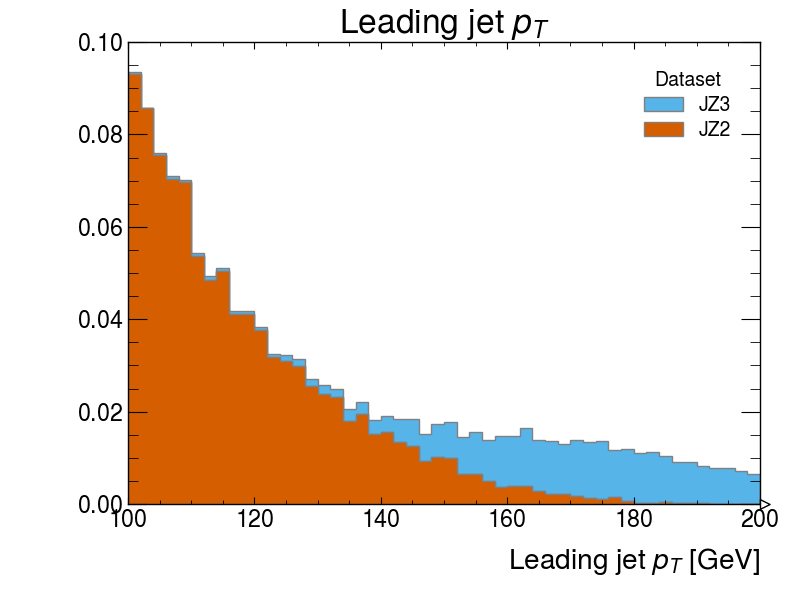
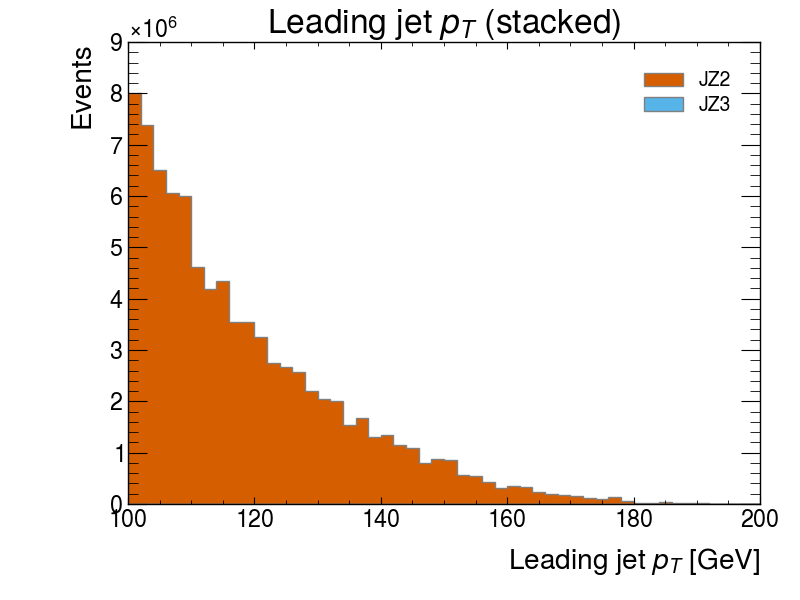
Update 01-pt-plot-2-samples and images from CI

diff --git a/01-pt-plot-2-samples.md b/01-pt-plot-2-samples.md
@@ -6,138 +6,149 @@
 <div style="margin-left: 1em;">
 
 
-- Fetches both rucio datasets with a single ServiceX request (NFiles=1 for each) and brings back only what’s needed: per-event jet pT (in GeV), the MC event weight, and a per-event counter for event counting.
-- Uses Awkward Array to find the leading-jet pT per event via ak.argmax, selects events where the leading-jet pT is in [100, 200] GeV, and applies weights.
-- Applies MC event weights and cross-section scaling to 1 fb^-1 luminosity:
-  - JZ2 (run 801167): 2.58 milli-barn
-  - JZ3 (run 801168): 8.6 micro-barn
-- Builds a weighted histogram with a categorical “process” axis and produces a stacked plot saved to leading_jet_pt_100_200_stacked.png.
-- Note: Only one file per dataset (NFiles=1) is processed here; increase NFiles yourself when you’re ready to run more.
+- Uses ServiceX (func_adl, PHYSLITE) to fetch only what’s needed from the two requested GRID datasets, filtering jets at the ServiceX level to 100 < pT < 200 GeV to minimize data transfer.
+- Computes, per event, the leading-jet pT (if any jet is in the 100–200 GeV window) with Awkward only, no Python loops.
+- Applies MC event weights and scales each MC sample to an integrated luminosity of 1 fb^-1 using cross sections:
+  - 801167 (JZ2): 2,582,600,000.0 pb
+  - 801168 (JZ3): 28,528,000.0 pb
+  The scale factor per sample is sf = (L_pb × sigma_pb) / N_total, with L_pb = 1000 × L_fb and N_total counted before any cuts (i.e., all events).
+- Builds a weighted, stacked histogram (100–200 GeV, 50 bins) of the leading jet pT and saves the plot to leading_jet_pt_stacked.png.
+- Notes:
+  - NFiles=1 is used for each dataset; when you are ready you can increase this locally.
+  - You can adjust the luminosity by changing lumifb in the code.
 
 ```python
 import awkward as ak
 import numpy as np
-import vector
-vector.register_awkward()
+from hist import Hist
+import matplotlib.pyplot as plt
+import mplhep as hep
 
 from func_adl_servicex_xaodr25 import FuncADLQueryPHYSLITE
 from servicex_analysis_utils import to_awk
 from servicex import deliver, ServiceXSpec, Sample, dataset
 
-from hist import Hist
-import matplotlib.pyplot as plt
-import mplhep as hep
-
+# Style for plotting
 plt.style.use(hep.style.ATLAS)
 
-# Dataset names (Rucio DIDs) – copied exactly as requested
+# Datasets (as requested)
 ds_jz2 = "mc23_13p6TeV:mc23_13p6TeV.801167.Py8EG_A14NNPDF23LO_jj_JZ2.deriv.DAOD_PHYSLITE.e8514_e8528_a911_s4114_r15224_r15225_p6697"
 ds_jz3 = "mc23_13p6TeV:mc23_13p6TeV.801168.Py8EG_A14NNPDF23LO_jj_JZ3.deriv.DAOD_PHYSLITE.e8514_e8528_a911_s4114_r15224_r15225_p6697"
 
-# Base query for PHYSLITE
-base_query = FuncADLQueryPHYSLITE()
+# Cross sections (pb), from provided table
+xsec_pb = {
+    "JZ2": 2582600000.0,  # 801167
+    "JZ3": 28528000.0,    # 801168
+}
 
-# Query: per-event jets' pT (GeV), MC event weight, and an event counter
+# Target integrated luminosity (fb^-1)
+lumifb = 1.0  # change if desired
+L_pb = lumifb * 1000.0  # convert fb^-1 to pb^-1
+
+# Build a single query to fetch:
+# - per-event MC weight
+# - a per-event constant "one" to count total events before cuts
+# - per-event jets with pT in (100, 200) GeV (to reduce data moved)
+base_query = FuncADLQueryPHYSLITE()
 query = (
     base_query
-    .Select(lambda e: {
-        "jet_pt": e.Jets().Select(lambda j: j.pt() / 1000.0),  # GeV
-        "mcw": e.EventInfo("EventInfo").mcEventWeight(0),
-        "one": 1.0,
-    })
+    .Select(
+        lambda e: {
+            "evt_weight": e.EventInfo("EventInfo").mcEventWeight(0),
+            "one": 1.0,
+            "jet_pt": e.Jets()
+                       .Where(lambda j: (j.pt() / 1000.0 > 100.0) and (j.pt() / 1000.0 < 200.0))
+                       .Select(lambda j: j.pt() / 1000.0),
+        }
+    )
 )
 
-# ServiceX delivery: both datasets in a single request; keep NFiles=1
-spec = ServiceXSpec(
-    Sample=[
-        Sample(
-            Name="JZ2",
-            Dataset=dataset.Rucio(ds_jz2),
-            NFiles=1,  # Keep to 1; scale yourself when ready
-            Query=query,
-        ),
-        Sample(
-            Name="JZ3",
-            Dataset=dataset.Rucio(ds_jz3),
-            NFiles=1,  # Keep to 1; scale yourself when ready
-            Query=query,
-        ),
-    ]
+# Deliver both datasets in one call
+all_data = to_awk(
+    deliver(
+        ServiceXSpec(
+            Sample=[
+                Sample(
+                    Name="JZ2",
+                    Dataset=dataset.Rucio(ds_jz2),
+                    NFiles=1,
+                    Query=query,
+                ),
+                Sample(
+                    Name="JZ3",
+                    Dataset=dataset.Rucio(ds_jz3),
+                    NFiles=1,
+                    Query=query,
+                ),
+            ]
+        )
+    )
 )
 
-all_data = to_awk(deliver(spec))
-d_jz2 = all_data["JZ2"]
-d_jz3 = all_data["JZ3"]
+data_jz2 = all_data["JZ2"]
+data_jz3 = all_data["JZ3"]
 
-# Helper to compute leading-jet pT per event and weights, applying selection 100–200 GeV
-def select_leading_pt_and_weights(d, sigma_fb):
-    # Leading jet pT per event using argmax
-    # Keepdims gives [[idx]] so we can slice; then ak.firsts to get a 1D array with Nones where needed
-    lead_idx = ak.argmax(d["jet_pt"], axis=1, keepdims=True)
-    lead_pt = ak.firsts(d["jet_pt"][lead_idx])
+def leading_pt_and_weights(sample_data, sample_name):
+    # Total events BEFORE any cuts
+    n_total = len(sample_data["one"])
 
-    # Event selection: leading jet pT in [100, 200] GeV and not None
-    in_range = (~ak.is_none(lead_pt)) & (lead_pt >= 100.0) & (lead_pt <= 200.0)
+    # Compute per-sample scale factor (MC xsec scaling to the chosen luminosity)
+    sigma = xsec_pb[sample_name]
+    sf = (L_pb * sigma) / n_total
 
-    # Count all events processed in this sample (before any cuts) for scaling
-    n_events = len(d["one"])
-    # Luminosity (fb^-1)
-    L_fb = 1.0
+    # Leading jet pT (per event) within 100–200 GeV (already filtered at ServiceX)
+    # Sort each event's jet list descending and take the first
+    sorted_pts = ak.sort(sample_data["jet_pt"], axis=1, ascending=False)
+    leading_pt = ak.firsts(sorted_pts)
 
-    # Scale factor per-event for this sample: L * sigma / N_S
-    sf = (L_fb * sigma_fb) / float(n_events) if n_events > 0 else 0.0
+    # Keep only events that have a leading jet in this window (i.e., not None)
+    good = ~ak.is_none(leading_pt)
+    leading_pt = leading_pt[good]
 
-    # Total event weight = mc event weight * sf
-    w = d["mcw"] * sf
+    # Event weights: MC event weight times sample scale factor
+    evt_w = sample_data["evt_weight"][good] * sf
 
-    # Apply selection
-    sel_pt = lead_pt[in_range]
-    sel_w = w[in_range]
+    return leading_pt, evt_w
 
-    # Convert to numpy for Hist.fill
-    return ak.to_numpy(sel_pt), ak.to_numpy(sel_w)
+lp_jz2, w_jz2 = leading_pt_and_weights(data_jz2, "JZ2")
+lp_jz3, w_jz3 = leading_pt_and_weights(data_jz3, "JZ3")
 
-# Cross sections converted to femto-barn (fb)
-# 1 barn = 1e15 fb
-sigma_fb_jz2 = 2.58e-3 * 1.0e15   # 2.58 milli-barn
-sigma_fb_jz3 = 8.6e-6  * 1.0e15   # 8.6 micro-barn
-
-pt_jz2, w_jz2 = select_leading_pt_and_weights(d_jz2, sigma_fb_jz2)
-pt_jz3, w_jz3 = select_leading_pt_and_weights(d_jz3, sigma_fb_jz3)
-
-# Histogram: 50 bins between 100 and 200 GeV, with categorical process axis; weighted storage
+# Create a weighted histogram with a process category axis for stacking
 h = (
     Hist.new
-        .Reg(50, 100.0, 200.0, name="pt", label=r"Leading jet $p_{T}$ [GeV]")
-        .StrCat(["JZ2", "JZ3"], name="process", label="Process")
+        .Reg(50, 100.0, 200.0, name="jet_pt", label="Leading jet $p_{T}$ [GeV]")
+        .StrCat([], name="process", label="Process", growth=True)
         .Weight()
 )
 
-# Fill for each process
-h.fill(pt=pt_jz2, process="JZ2", weight=w_jz2)
-h.fill(pt=pt_jz3, process="JZ3", weight=w_jz3)
+# Fill histogram for each process
+h.fill(jet_pt=ak.to_numpy(lp_jz2), process="JZ2", weight=ak.to_numpy(w_jz2))
+h.fill(jet_pt=ak.to_numpy(lp_jz3), process="JZ3", weight=ak.to_numpy(w_jz3))
 
-# Make a stacked plot
+# Plot stacked
 fig, ax = plt.subplots()
-h_stack = h.stack("process")
-# Plot as stacked filled histograms
-h_stack.plot(stack=True, histtype="fill", linewidth=1, edgecolor="black")
-ax.set_xlim(100, 200)
-ax.set_xlabel(r"Leading jet $p_{T}$ [GeV]")
-ax.set_ylabel("Events (weighted)")
-ax.set_title("Leading jet $p_{T}$")
-ax.legend(title="Process")
+# Plot each slice stacked on the same axes
+h[:, "JZ2"].plot(ax=ax, histtype="fill", linewidth=1, edgecolor="gray", label="JZ2", stack=True)
+h[:, "JZ3"].plot(ax=ax, histtype="fill", linewidth=1, edgecolor="gray", label="JZ3", stack=True)
 
-fig.savefig("leading_jet_pt_100_200_stacked.png")
+ax.legend()
+ax.set_xlabel("Leading jet $p_{T}$ [GeV]")
+ax.set_ylabel("Events")
+ax.set_title("Leading jet $p_{T}$ (stacked)")
+
+fig.savefig("leading_jet_pt_stacked.png")
 plt.close(fig)
+
+print("Wrote: leading_jet_pt_stacked.png")
 ```
 ### stdout:
 
 ```text
-JZ2: Transform ━━━━━━━━━━━━━━━━━━━━━━━━━━━━━━━━━━━━━━━━ 1/1 00:21
+JZ2: Transform ━━━━━━━━━━━━━━━━━━━━━━━━━━━━━━━━━━━━━━━━ 1/1 00:20
       Download ━━━━━━━━━━━━━━━━━━━━━━━━━━━━━━━━━━━━━━━━ 1/1 00:25
-JZ3: Transform ━━━━━━━━━━━━━━━━━━━━━━━━━━━━━━━━━━━━━━━━ 1/1 00:21
-      Download ━━━━━━━━━━━━━━━━━━━━━━━━━━━━━━━━━━━━━━━━ 1/1 00:26
+JZ3: Transform ━━━━━━━━━━━━━━━━━━━━━━━━━━━━━━━━━━━━━━━━ 1/1 00:25
+      Download ━━━━━━━━━━━━━━━━━━━━━━━━━━━━━━━━━━━━━━━━ 1/1 00:30
+Wrote: leading_jet_pt_stacked.png
 **Success**
 
 ```
@@ -166,33 +177,31 @@ a0831920243c: Waiting
 ce8f13a8c0b6: Waiting
 8f2cf14ad14d: Waiting
 660b8664e6e1: Waiting
-8fdd7df8e834: Waiting
 eb522b4f7276: Waiting
+8fdd7df8e834: Waiting
 0f40319da806: Verifying Checksum
 0f40319da806: Download complete
 081f96d6584f: Verifying Checksum
 081f96d6584f: Download complete
-8fdd7df8e834: Verifying Checksum
-8fdd7df8e834: Download complete
-59e22667830b: Verifying Checksum
-59e22667830b: Download complete
 2a1478e0415a: Verifying Checksum
 2a1478e0415a: Download complete
-a0831920243c: Verifying Checksum
+59e22667830b: Verifying Checksum
+59e22667830b: Download complete
 a0831920243c: Download complete
+4f4fb700ef54: Verifying Checksum
 4f4fb700ef54: Download complete
+8fdd7df8e834: Verifying Checksum
+8fdd7df8e834: Download complete
+235451d01566: Verifying Checksum
+235451d01566: Download complete
 ce8f13a8c0b6: Verifying Checksum
 ce8f13a8c0b6: Download complete
+59e22667830b: Pull complete
 660b8664e6e1: Verifying Checksum
 660b8664e6e1: Download complete
 eb522b4f7276: Verifying Checksum
 eb522b4f7276: Download complete
-59e22667830b: Pull complete
-8f2cf14ad14d: Verifying Checksum
-8f2cf14ad14d: Download complete
 0f40319da806: Pull complete
-235451d01566: Verifying Checksum
-235451d01566: Download complete
 081f96d6584f: Pull complete
 8fdd7df8e834: Pull complete
 2a1478e0415a: Pull complete
@@ -200,6 +209,8 @@ eb522b4f7276: Download complete
 a0831920243c: Pull complete
 4f4fb700ef54: Pull complete
 ce8f13a8c0b6: Pull complete
+8f2cf14ad14d: Verifying Checksum
+8f2cf14ad14d: Download complete
 8f2cf14ad14d: Pull complete
 660b8664e6e1: Pull complete
 eb522b4f7276: Pull complete
@@ -216,7 +227,7 @@ bash: no job control in this shell
 </div></details>
 
 
-![e1255027_gpt-5_leading_jet_pt_100_200_stacked.png](img/e1255027_gpt-5_leading_jet_pt_100_200_stacked.png)
+![e1255027_gpt-5_leading_jet_pt_stacked.png](img/e1255027_gpt-5_leading_jet_pt_stacked.png)
 <details><summary>Usage</summary>
 <div style="margin-left: 1em;">
 
@@ -224,14 +235,14 @@ bash: no job control in this shell
 ### LLM Usage
 | Step | Time (sec) | Prompt Tokens | Completion Tokens | Total Tokens | Cost (USD) |
 |---|---|---|---|---|---|
-| Run 1 | 105.48 | 14746 | 5698 | 20444 | $0.08 |
-| **Total** | 105.48 | 14746 | 5698 | 20444 | $0.075 |
+| Run 1 | 94.45 | 14751 | 7004 | 21755 | $0.09 |
+| **Total** | 94.45 | 14751 | 7004 | 21755 | $0.088 |
 
 ### Docker Usage
 | Phase | Elapsed Time (seconds) |
 |-------|--------------|
-| Run 1 | 47.31 |
-| **Total** | **47.31** |
+| Run 1 | 48.12 |
+| **Total** | **48.12** |
 
 </div></details>
 
@@ -239,8 +250,8 @@ bash: no job control in this shell
 ## CSV
 
 Model,Time,PromptTokens,CompletionTokens,TotalTokens,EstimatedCost,Attempts,CodeTime,Result
-gpt-5,105.48,14746,5698,20444,0.075,1,47.31,Success
+gpt-5,94.45,14751,7004,21755,0.088,1,48.12,Success
 ## Summary
 | Model | Time | Prompt Tokens | Completion Tokens | Total Tokens | Estimated Cost | Attempts | Code Time | Result |
 |-----|----|-------------|-----------------|------------|--------------|--------|---------|------|
-| gpt-5 | 105.48 | 14746 | 5698 | 20444 | $0.075 | 1 | 47.31 | Success |
+| gpt-5 | 94.45 | 14751 | 7004 | 21755 | $0.088 | 1 | 48.12 | Success |
